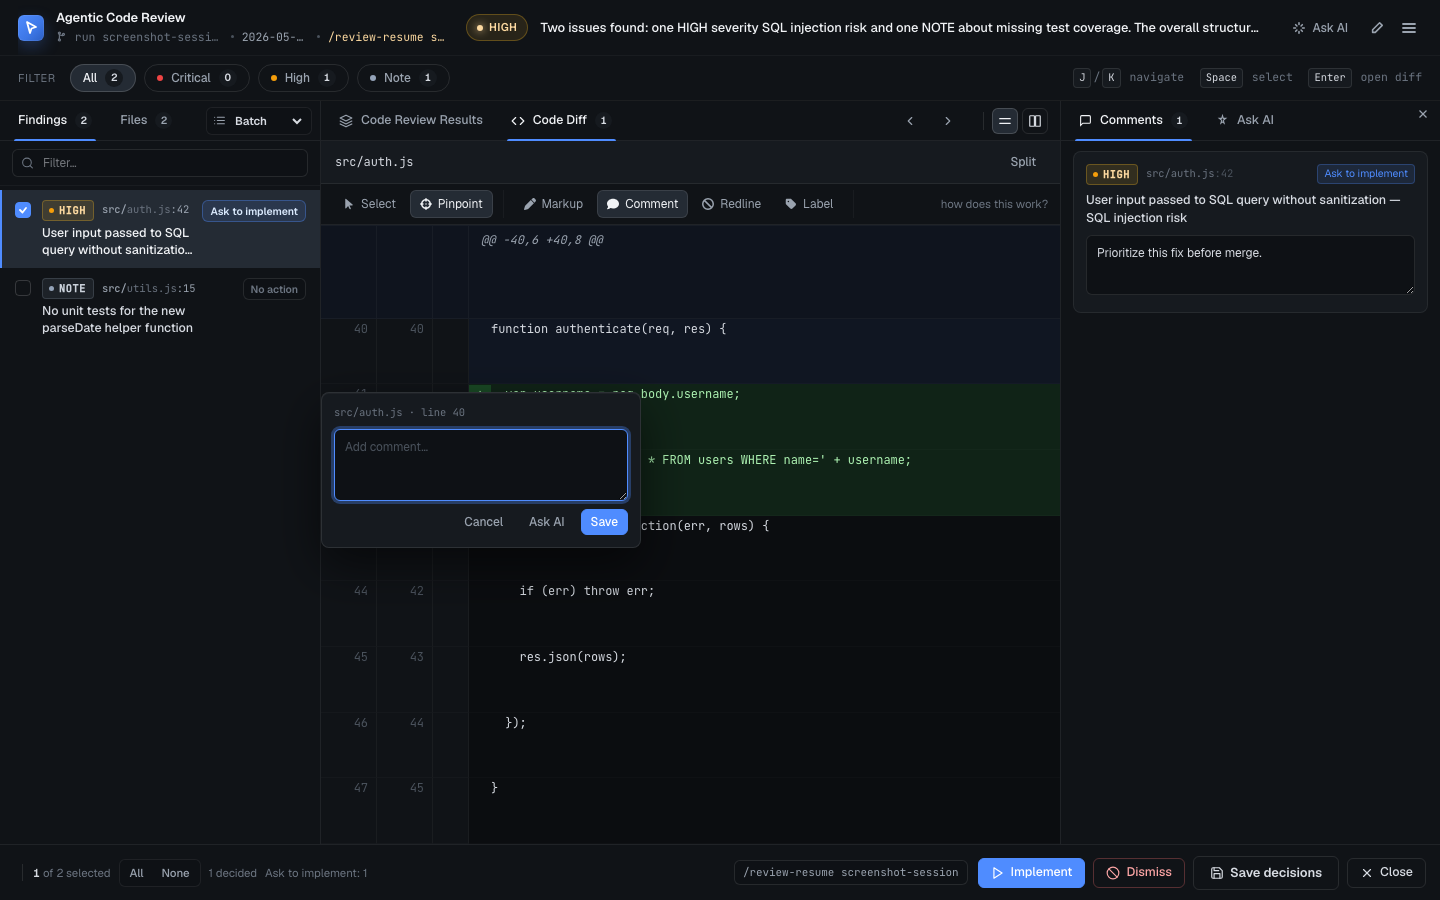
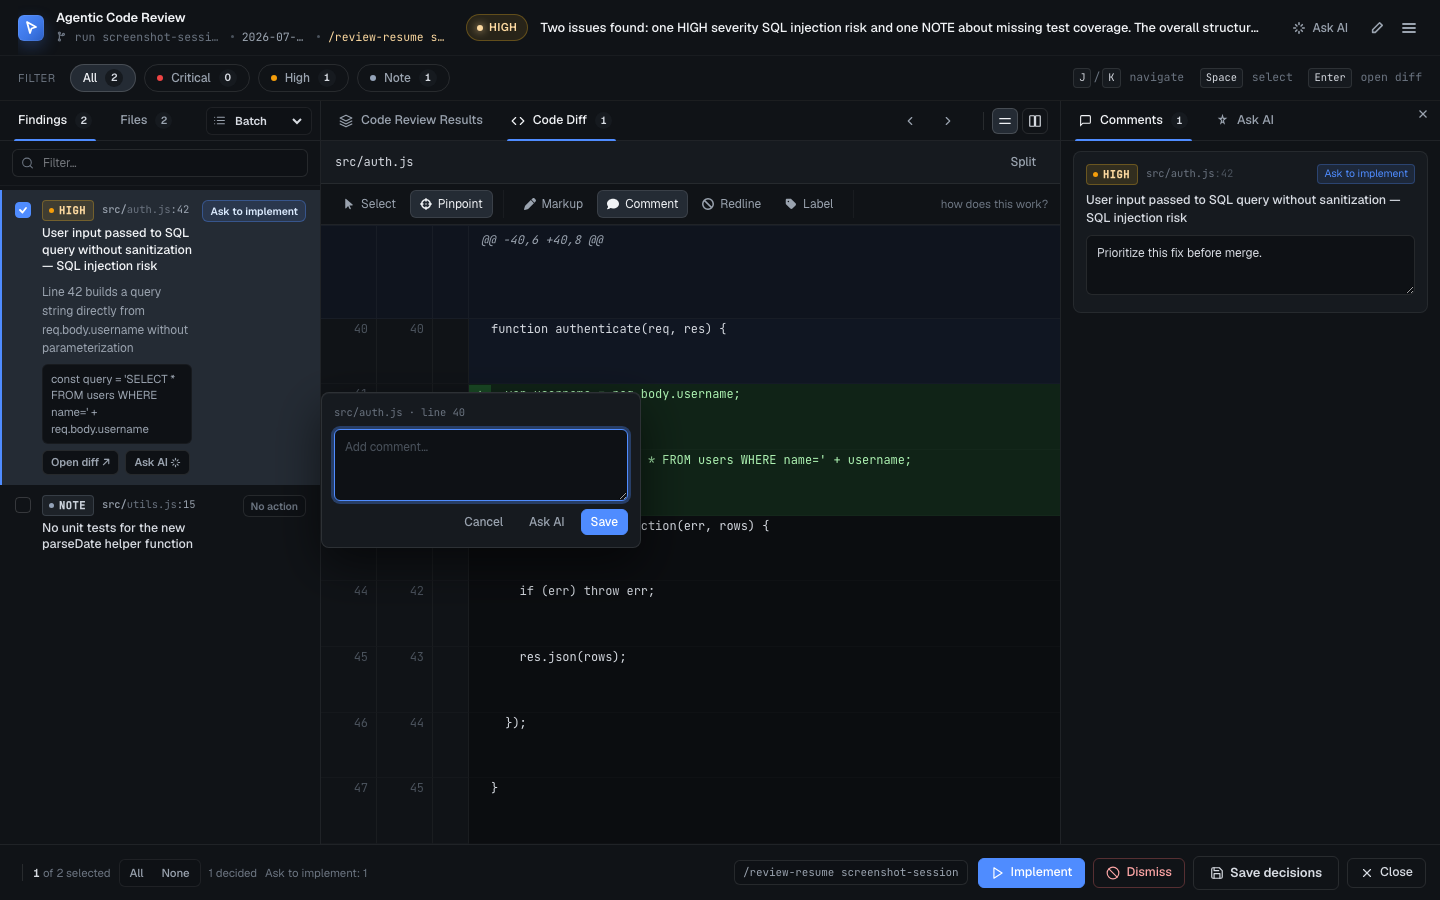
Regenerate UI screenshots and add results-view capture

Changed region(s): [[0.0, 0.28, 0.25, 0.6222]]

diff --git a/scripts/capture-screenshots.js b/scripts/capture-screenshots.js
@@ -15,6 +15,29 @@ const SCREENSHOTS_DIR = path.join(__dirname, '..', 'docs', 'screenshots');
 const SERVER_ENTRY = path.join(__dirname, '..', 'packages', 'server', 'src', 'index.ts');
 const BUN_BIN = process.env.BUN_BIN || (fs.existsSync('/opt/homebrew/bin/bun') ? '/opt/homebrew/bin/bun' : 'bun');
 
+const finding1 = {
+  id: "f1",
+  severity: "HIGH",
+  file: "src/auth.js",
+  location: "src/auth.js:42",
+  line: 42,
+  dimensions: ["security"],
+  finding: "User input passed to SQL query without sanitization — SQL injection risk",
+  reasoning: "Line 42 builds a query string directly from req.body.username without parameterization",
+  evidence: "const query = 'SELECT * FROM users WHERE name=' + req.body.username"
+};
+
+const finding2 = {
+  id: "f2",
+  severity: "NOTE",
+  file: "src/utils.js",
+  location: "src/utils.js:15",
+  line: 15,
+  dimensions: ["testing"],
+  finding: "No unit tests for the new parseDate helper function",
+  reasoning: "parseDate is called from 3 places but has no test coverage"
+};
+
 const sampleData = {
   verdict: "Two issues found: one HIGH severity SQL injection risk and one NOTE about missing test coverage. The overall structure of the changes is clean.",
   branch: "feature/example",
@@ -23,26 +46,13 @@ const sampleData = {
   timestamp: new Date().toISOString(),
   resumeCommand: "/review-resume screenshot-session",
   summary: "Review complete. Address the SQL injection before merge.",
-  findings: [
-    {
-      id: "f1",
-      severity: "HIGH",
-      file: "src/auth.js",
-      location: "src/auth.js:42",
-      line: 42,
-      finding: "User input passed to SQL query without sanitization — SQL injection risk",
-      reasoning: "Line 42 builds a query string directly from req.body.username without parameterization",
-      evidence: "const query = 'SELECT * FROM users WHERE name=' + req.body.username"
-    },
-    {
-      id: "f2",
-      severity: "NOTE",
-      file: "src/utils.js",
-      location: "src/utils.js:15",
-      line: 15,
-      finding: "No unit tests for the new parseDate helper function",
-      reasoning: "parseDate is called from 3 places but has no test coverage"
-    }
+  findings: [finding1, finding2],
+  reviewerResults: [
+    { agent: "semantic-analyzer", status: "complete", findings: [] },
+    { agent: "security-scanner", status: "complete", findings: [finding1] },
+    { agent: "architecture-reviewer", status: "complete", findings: [] },
+    { agent: "test-coverage-analyzer", status: "complete", findings: [finding2] },
+    { agent: "senior-dev-reviewer", status: "complete", findings: [] }
   ],
   files: [
     {
@@ -114,6 +124,10 @@ const playwrightCaptureScript = function(url, outDir) {
     "  await page.addInitScript(() => { localStorage.clear(); });",
     "  await page.goto('" + url + "');",
     "  await page.waitForSelector('.finding', { timeout: 8000 });",
+    "  await page.waitForSelector('.dim--open', { timeout: 8000 }).catch(() => {});",
+    "  await page.waitForTimeout(400);",
+    "  await page.screenshot({ path: '" + outDir + "/results-view.png' });",
+    "  console.log('Screenshot 0: results-view.png');",
     "  await page.click('.finding');",
     "  await page.click('.finding .checkbox');",
     "  await page.waitForSelector('.diff-view table, .diff-view .diff-table', { timeout: 8000 }).catch(() => {});",
@@ -122,6 +136,9 @@ const playwrightCaptureScript = function(url, outDir) {
     "  await page.waitForTimeout(500);",
     "  await page.screenshot({ path: '" + outDir + "/review-ui.png' });",
     "  console.log('Screenshot 1: review-ui.png');",
+    "  await page.click('.finding button:has-text(\"Open diff\")');",
+    "  await page.waitForSelector('.annotation-toolstrip', { timeout: 8000 });",
+    "  await page.waitForSelector('.diff-view tr[data-line-right], .diff-view tr[data-line-left]', { timeout: 8000 });",
     "  await page.click('.annotation-toolstrip button:has-text(\"Pinpoint\")');",
     "  await page.click('.annotation-toolstrip button:has-text(\"Comment\")');",
     "  await page.click('.diff-view tr[data-line-right], .diff-view tr[data-line-left]');",

diff --git a/README.md b/README.md
@@ -302,14 +302,17 @@ Cost controls: when all five reviewers complete with zero findings the synthesiz
 
 ## Screenshots
 
+### Code Review Results
+![Code Review Results tab — synthesized verdict with severity counts and per-reviewer agent groups showing each agent's status and findings](docs/screenshots/results-view.png)
+
 ### Full review UI
-![Full review UI — three-panel layout with findings list, diff viewer, and comments panel](docs/screenshots/review-ui.png)
+![Full review UI — three-panel layout with findings list, Code Review Results, and comments panel with a finding marked Ask to implement](docs/screenshots/review-ui.png)
 
 ### Annotation toolstrip and diff viewer
-![Diff viewer with annotation toolstrip showing Select, Pinpoint, Markup, Comment, Redline, and Label modes](docs/screenshots/annotation.png)
+![Code Diff tab with annotation toolstrip showing Select, Pinpoint, Markup, Comment, Redline, and Label modes, and an inline comment popover on a diff line](docs/screenshots/annotation.png)
 
 ### Ask AI chat panel
-![Ask AI tab in the right panel with a chat input ready to query the active AI provider about the diff](docs/screenshots/chat-panel.png)
+![Ask AI tab in the right panel with suggested prompts and a chat input ready to query the active AI provider about the diff](docs/screenshots/chat-panel.png)
 
 ## Project layout
 
